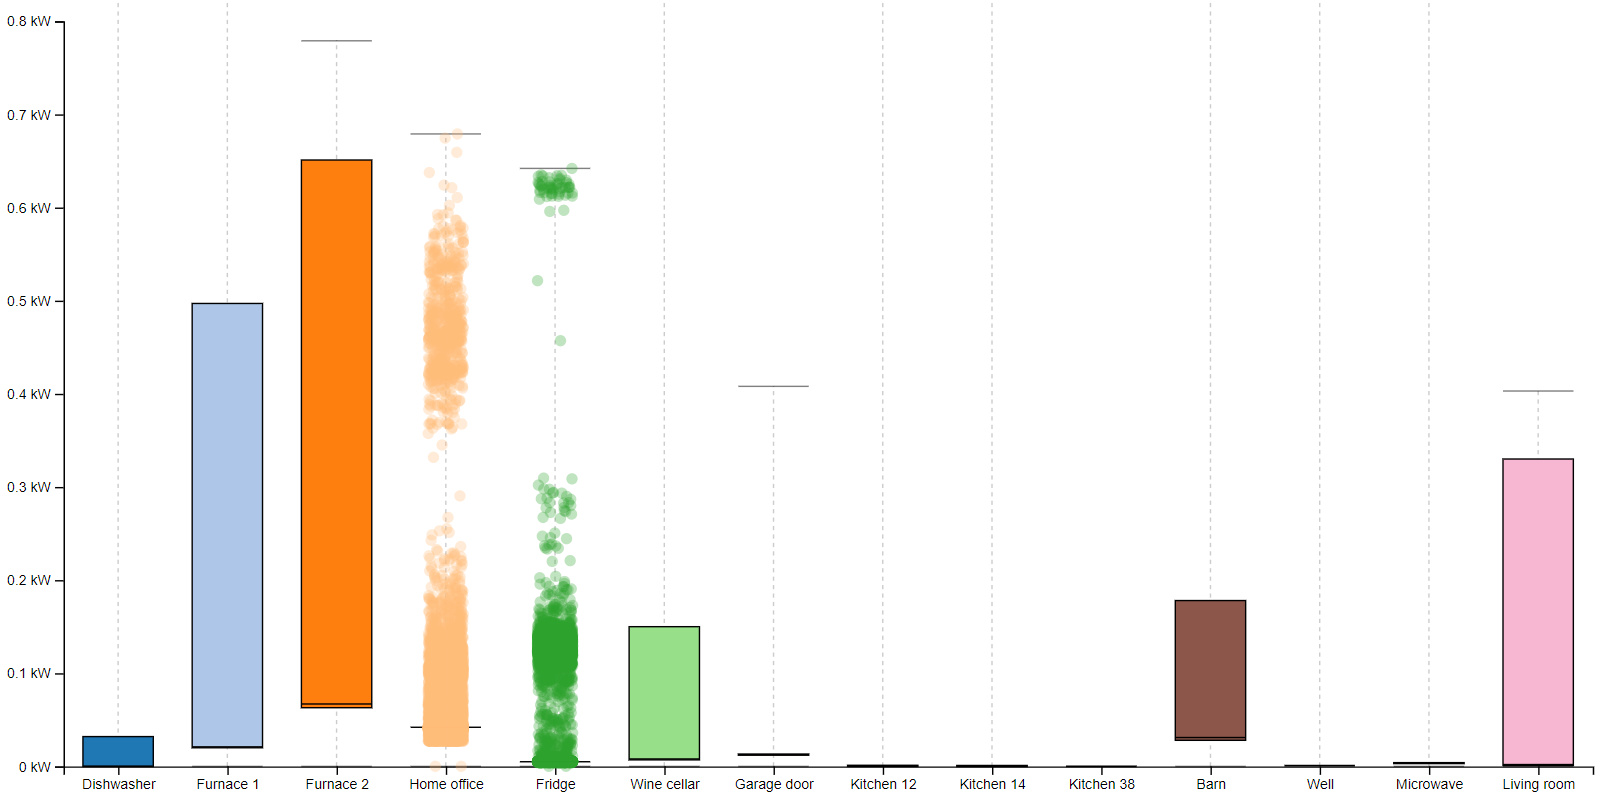
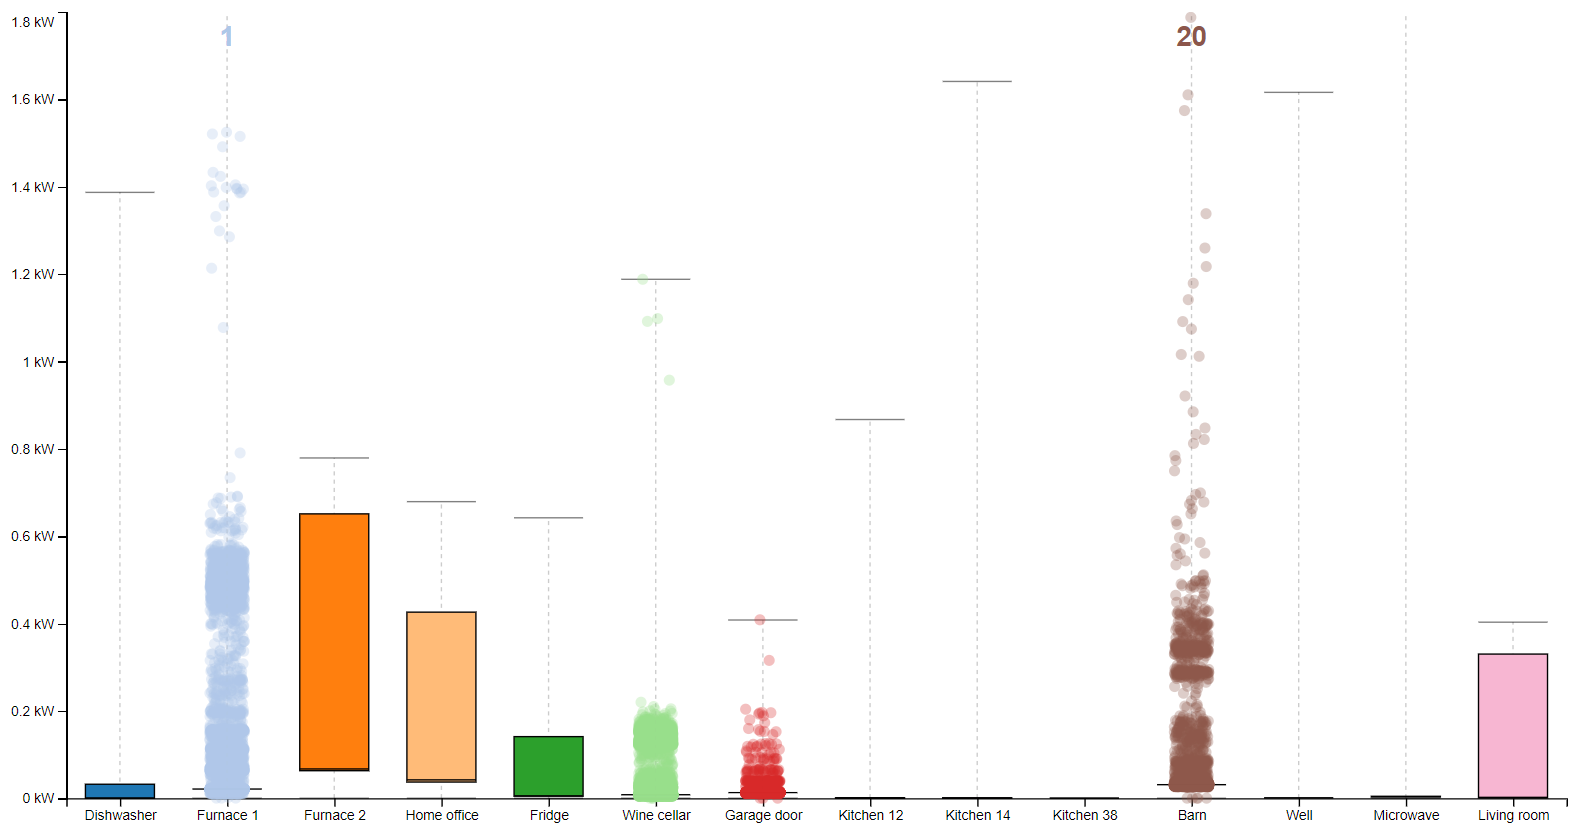
Add existing file

diff --git a/js/va-lib/boxplot.js b/js/va-lib/boxplot.js
@@ -57,7 +57,7 @@ function show_data(rows, dev, p){
     
     d3.select("#"+dev.replace(/ /g,'')).remove();
     var device=dev+" [kW]";
-  var test=[];
+    var test=[];
           count = 0
 	        for (i=0; i<rows.length; i++) {
                 if(rows[i][device] > 1.8){
@@ -78,7 +78,7 @@ function show_data(rows, dev, p){
               .attr("stroke", "none")
               .style("opacity", .3);
               
-              console.log(x(test[0].key))
+              //console.log(x(test[0].key))
             if(count != 0){
               svg.append('text')
               .attr("x", function(d){return(x(test[0].key))})
@@ -204,7 +204,7 @@ d3.csv("data/clean_dataset.csv", function(error, rows) {
     .append("rect")
         .attr("id", function(d, i) {return (d.key).replace(/ /g,'')})
         .attr("x", function(d){return(x(d.key)-boxWidth/2)})
-        .attr("y", function(d){return(y(0.7))})
+        .attr("y", function(d){return(y(1.8))})
         .attr("height", height)
         .attr("width", boxWidth )
         .style("opacity",0)
